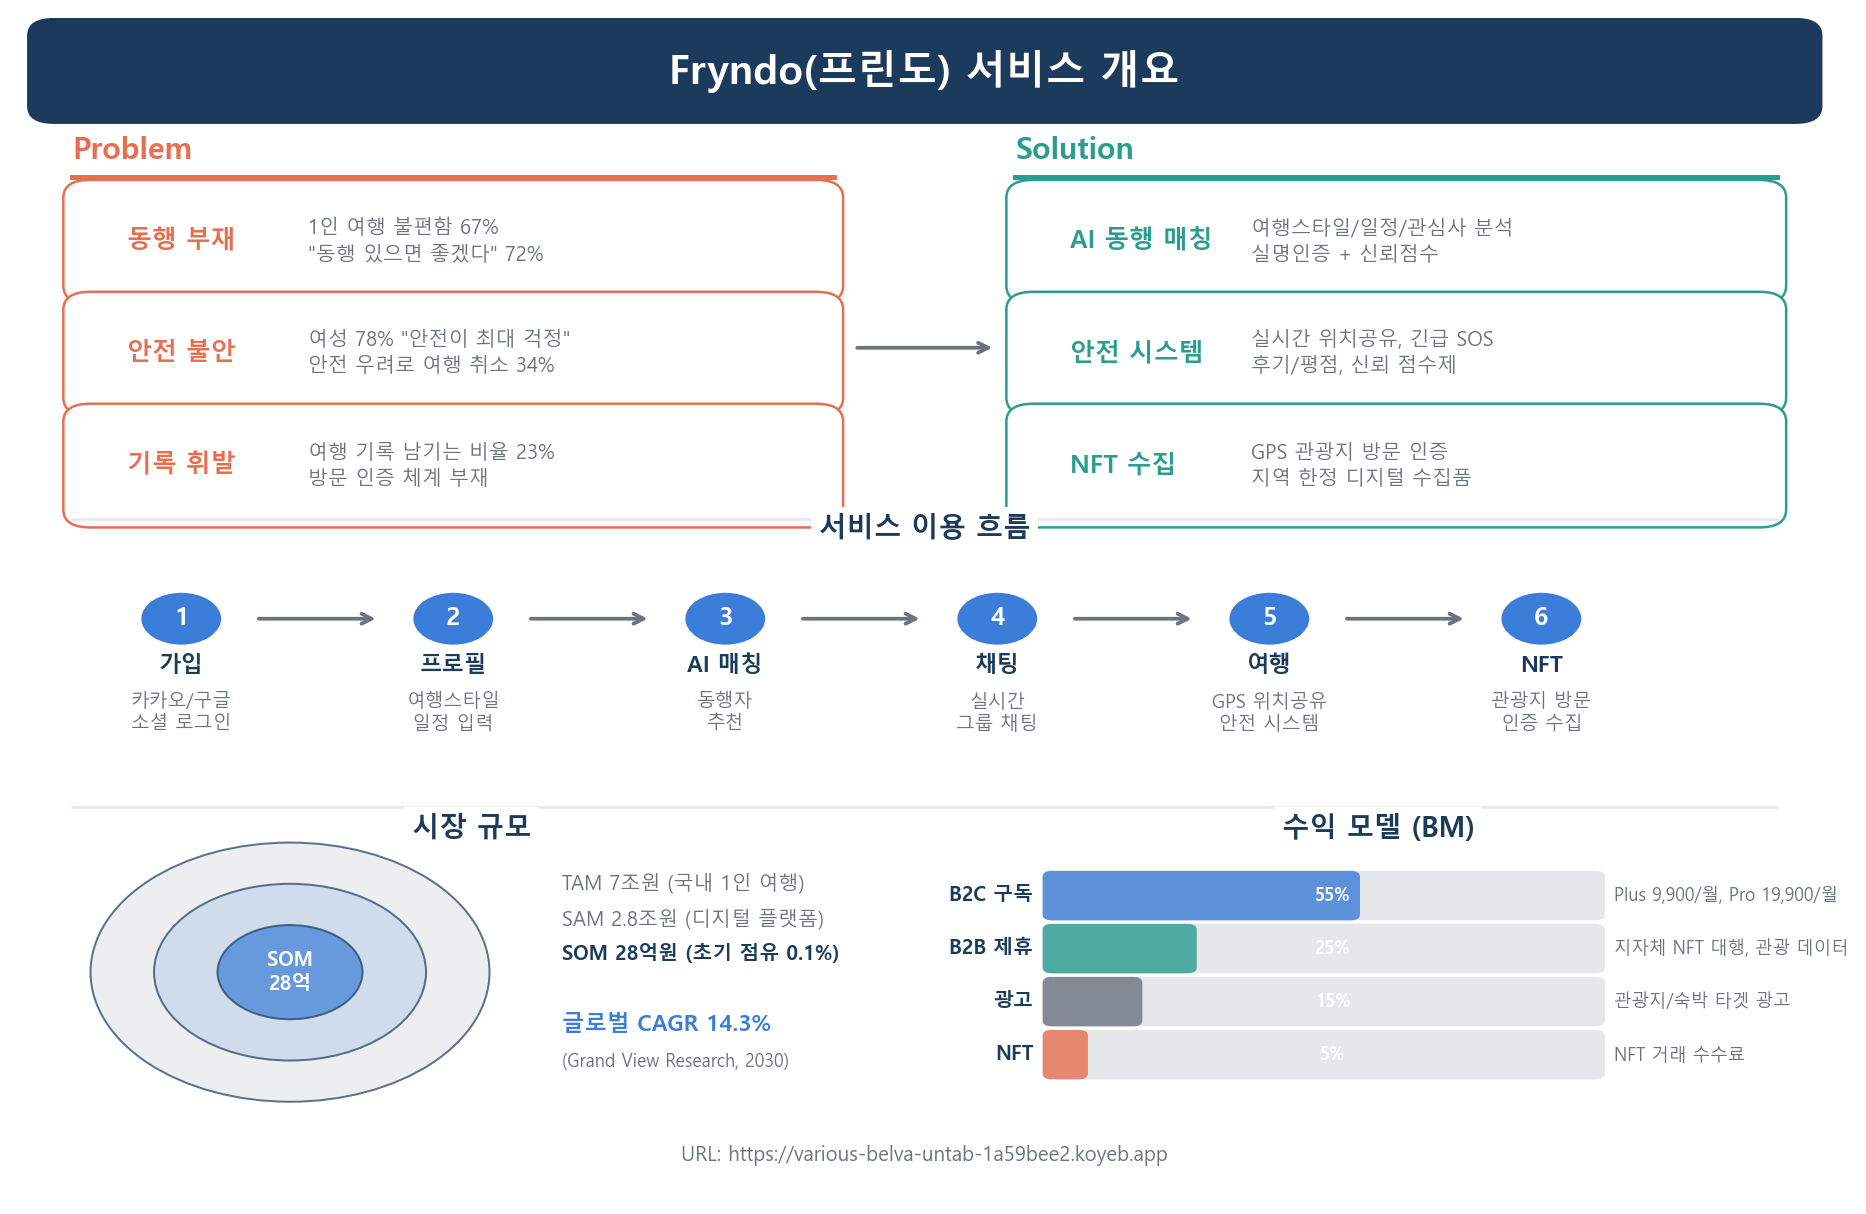
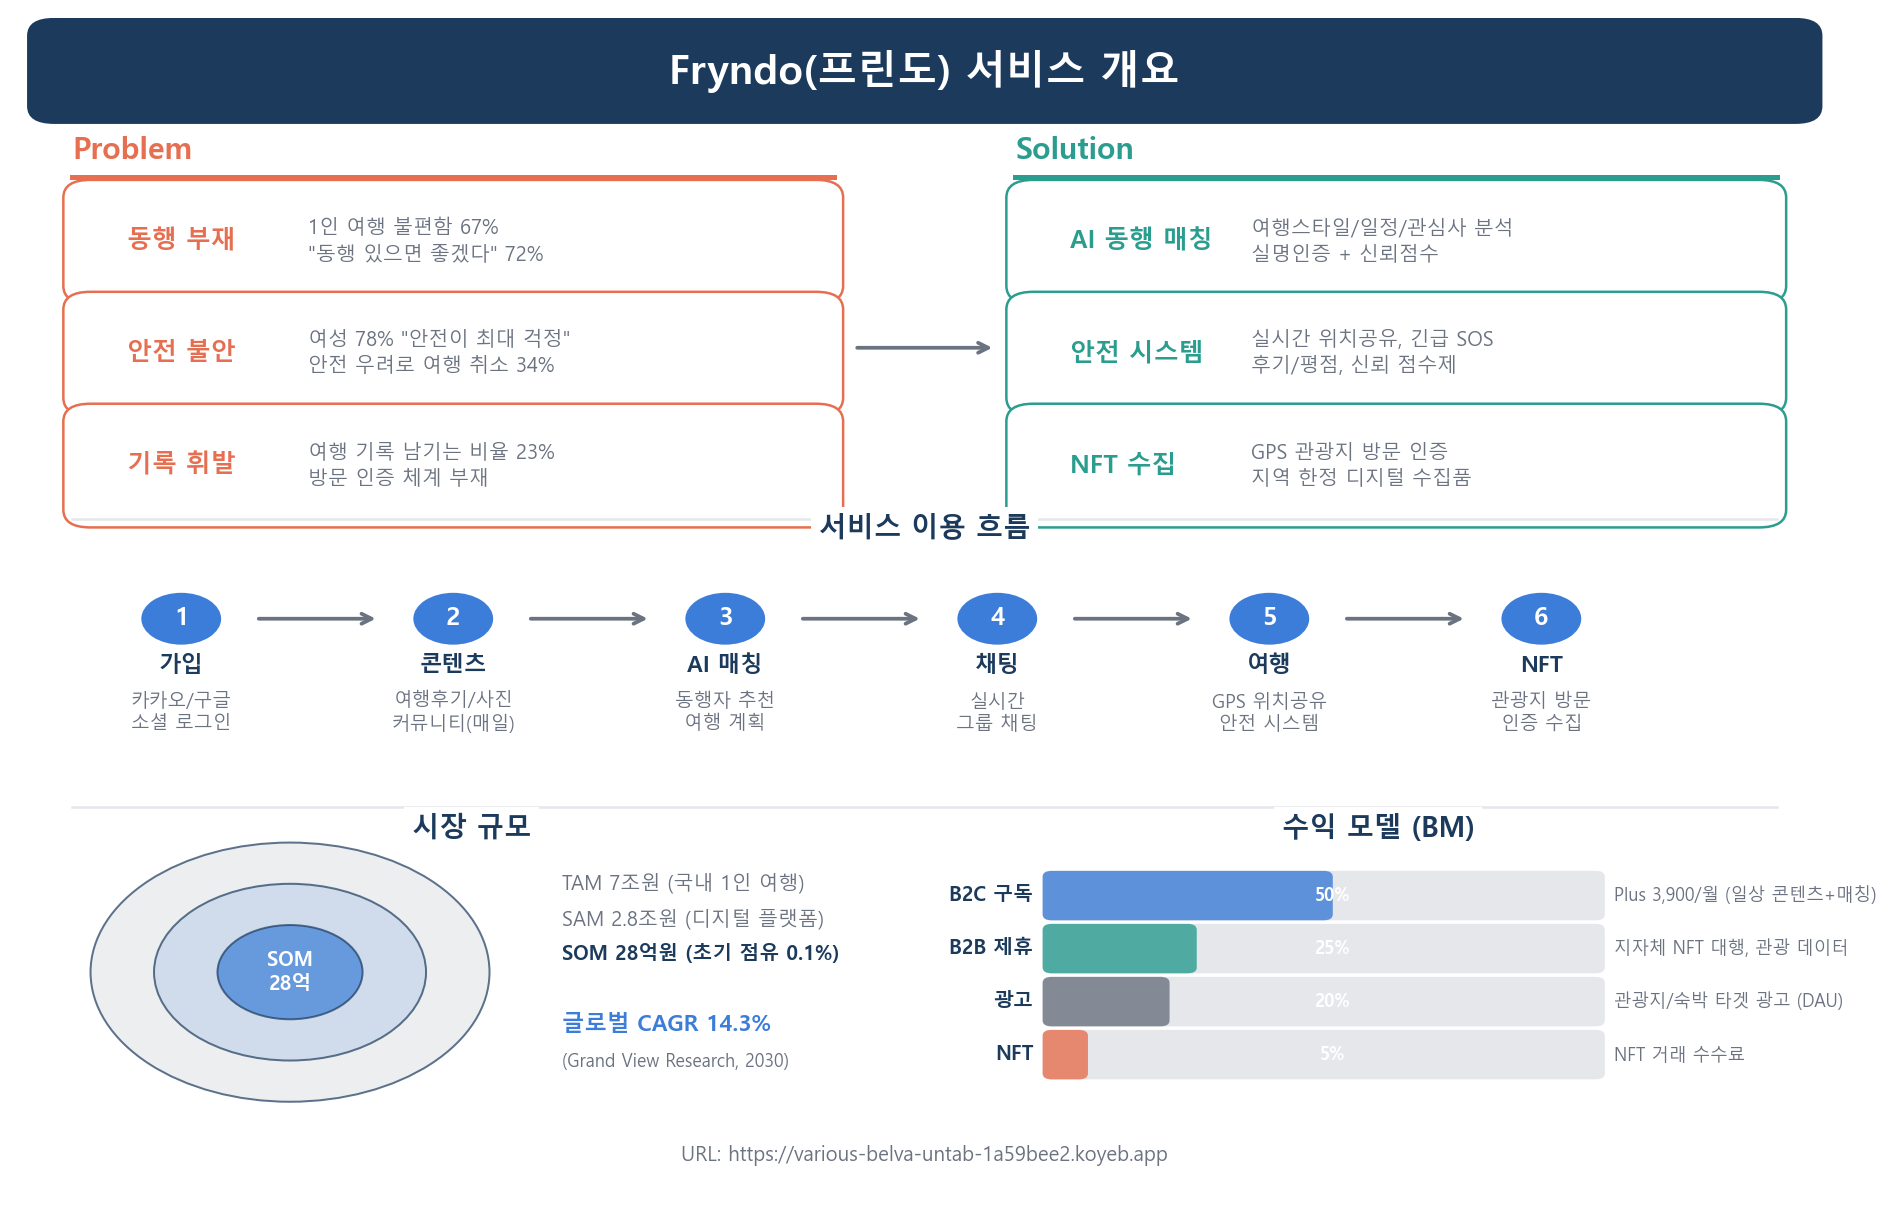
docs: BM 개편 (₩3,900 단일 플랜, 일상 콘텐츠 앱화) + DOCX v4 / 이미지 재생성
- 구독 ₩9,900/₩19,900 → ₩3,900 단일 플랜
- 평소 콘텐츠·커뮤니티 + 여행 시 매칭 (일상 앱화)
- 수익 비중: 구독 50% + B2B 25% + 광고 20% + NFT 5%
- 서비스흐름도/시스템아키텍처 이미지 업데이트

diff --git a/docs/현재/create_images.py b/docs/현재/create_images.py
@@ -92,8 +92,8 @@ ax1.text(0.5, 0.56, '서비스 이용 흐름', ha='center', fontsize=11, color=N
 
 flow_steps = [
     ('1. 가입', '카카오/구글\n소셜 로그인'),
-    ('2. 프로필', '여행스타일\n일정 입력'),
-    ('3. AI 매칭', '동행자\n추천'),
+    ('2. 콘텐츠', '여행후기/사진\n커뮤니티(매일)'),
+    ('3. AI 매칭', '동행자 추천\n여행 계획'),
     ('4. 채팅', '실시간\n그룹 채팅'),
     ('5. 여행', 'GPS 위치공유\n안전 시스템'),
     ('6. NFT', '관광지 방문\n인증 수집'),
@@ -139,9 +139,9 @@ ax1.text(0.75, 0.305, '수익 모델 (BM)', ha='center', fontsize=11, color=NAVY
          bbox=dict(facecolor=WHITE, edgecolor='none', pad=3))
 
 bm = [
-    ('B2C 구독', '55%', 'Plus 9,900/월, Pro 19,900/월', BLUE),
+    ('B2C 구독', '50%', 'Plus 3,900/월 (일상 콘텐츠+매칭)', BLUE),
     ('B2B 제휴', '25%', '지자체 NFT 대행, 관광 데이터', TEAL),
-    ('광고', '15%', '관광지/숙박 타겟 광고', GRAY),
+    ('광고', '20%', '관광지/숙박 타겟 광고 (DAU)', GRAY),
     ('NFT', '5%', 'NFT 거래 수수료', ORANGE),
 ]
 

diff --git a/docs/현재/관광벤처_신청준비.md b/docs/현재/관광벤처_신청준비.md
@@ -89,7 +89,8 @@ SOM: 초기 타겟 (MZ세대 + 주요 관광지) = 시장 0.1% = 28억원
 **사업모델 (BM)**:
 
 ```
-[B2C] 프리미엄 구독 ₩9,900/월 (무제한 매칭, 프리미엄 추천)
+[B2C] Plus 구독 ₩3,900/월 (무제한 매칭, AI 추천, 프리미엄 콘텐츠)
+      → 평소: 여행 콘텐츠·커뮤니티 / 여행 시: 매칭·인증 (일상 앱화)
 [B2B] 지자체/관광공사 제휴 (지역 관광 데이터, NFT 발행 대행)
 [B2G] 관광 데이터 공공 제공, 관광 안전 시스템 연계
 ```
